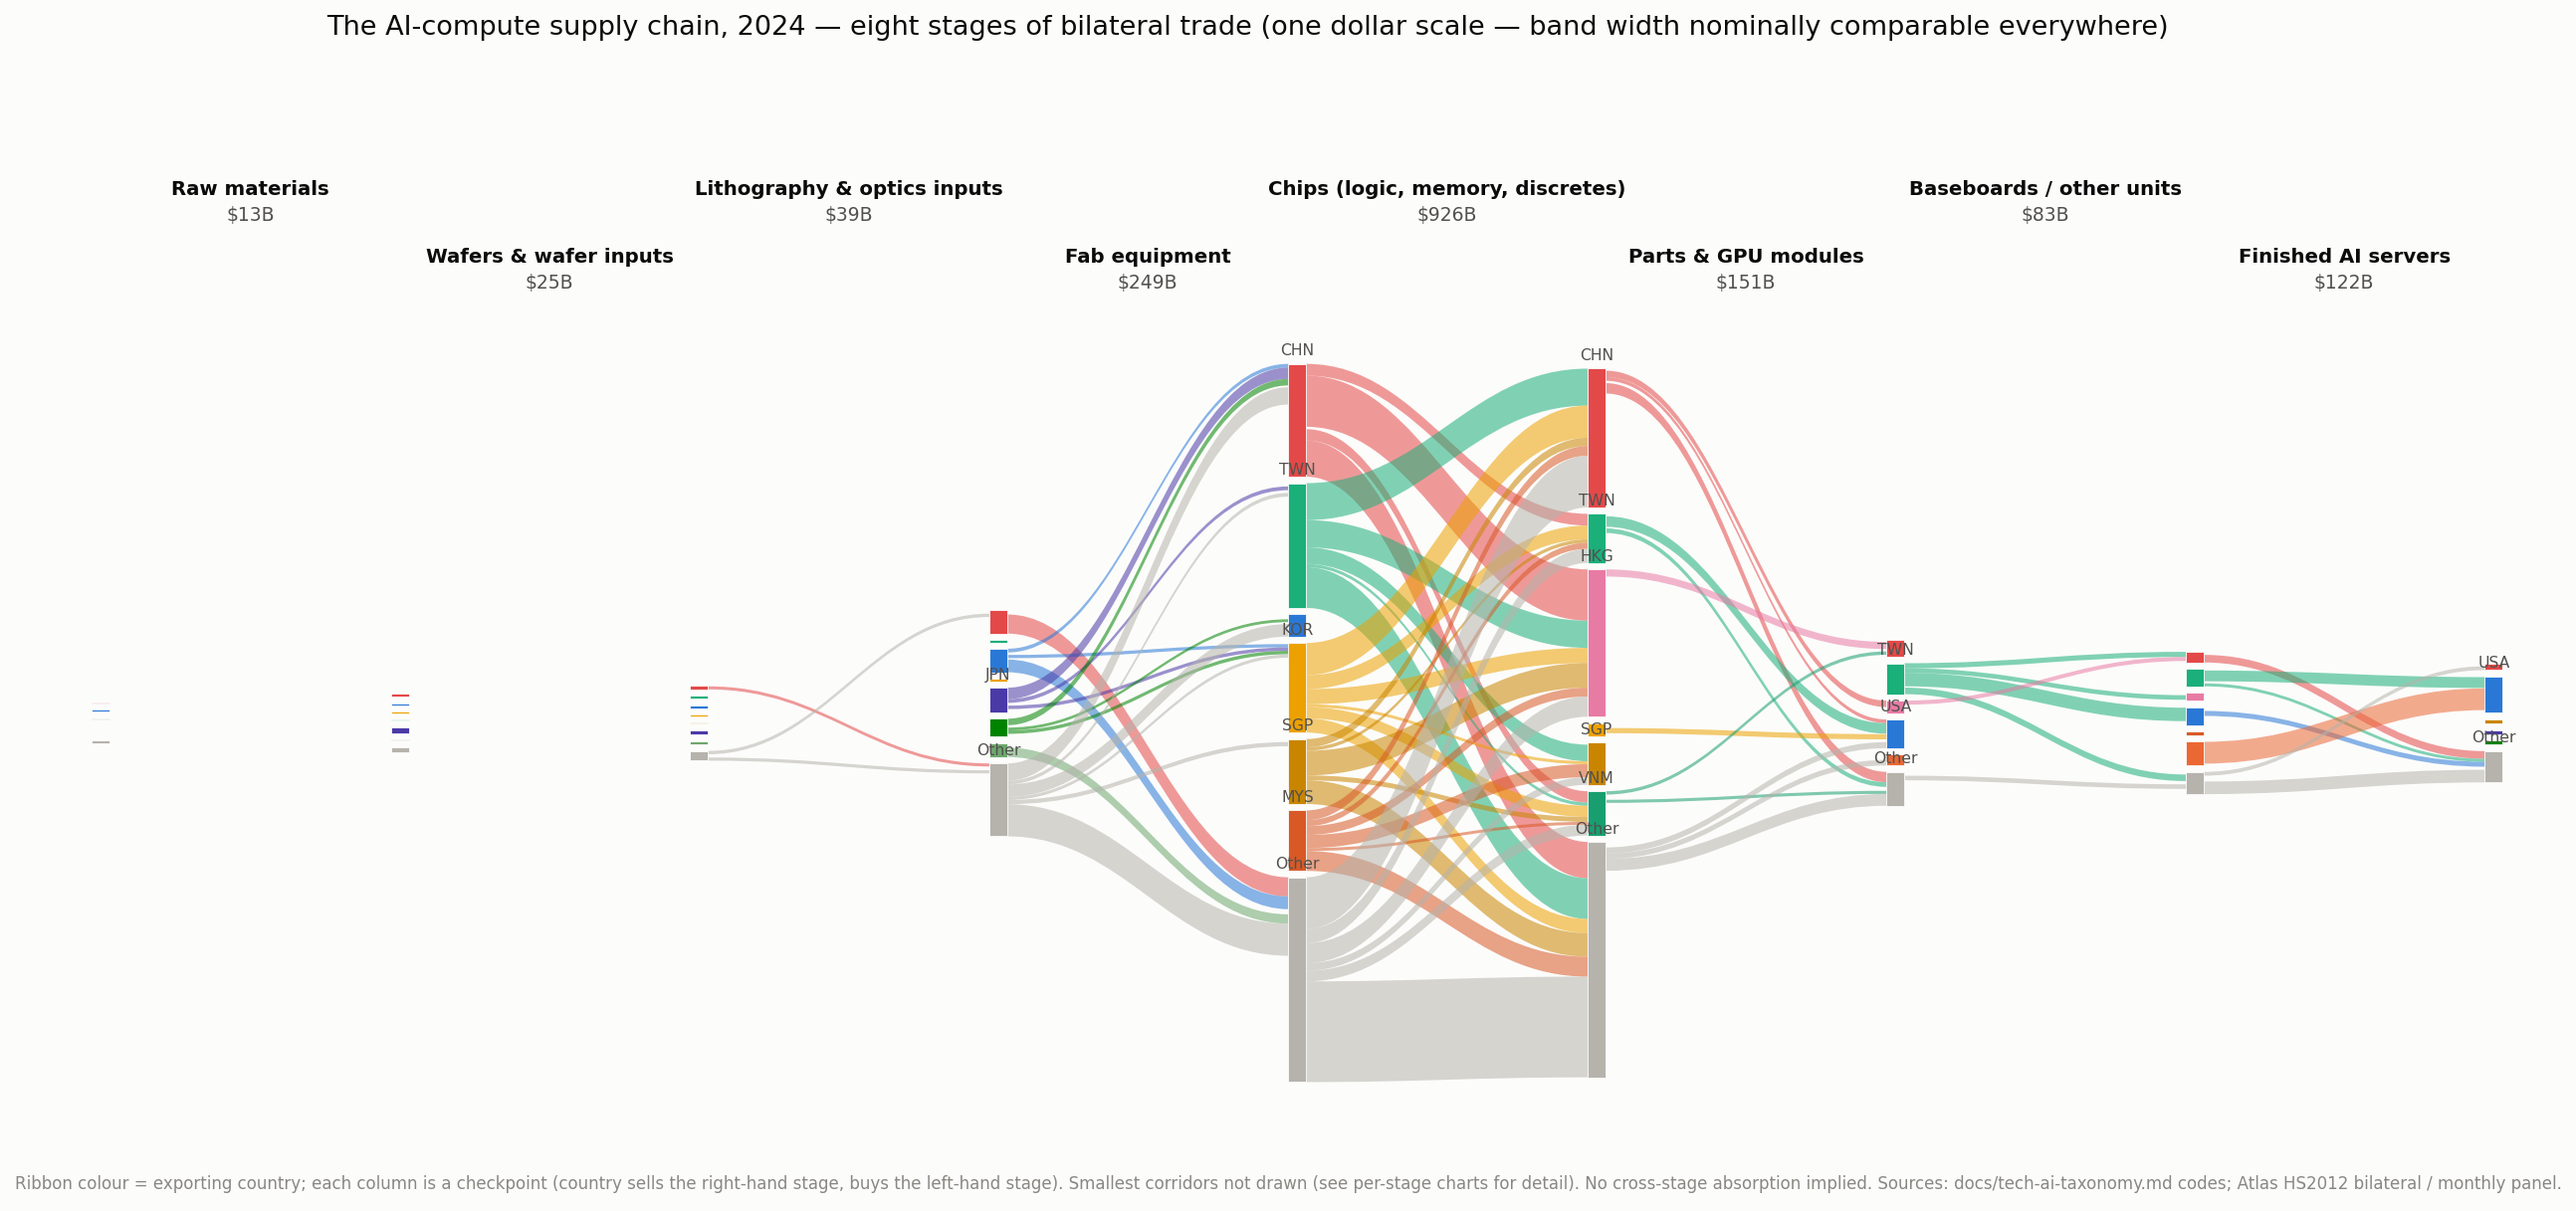
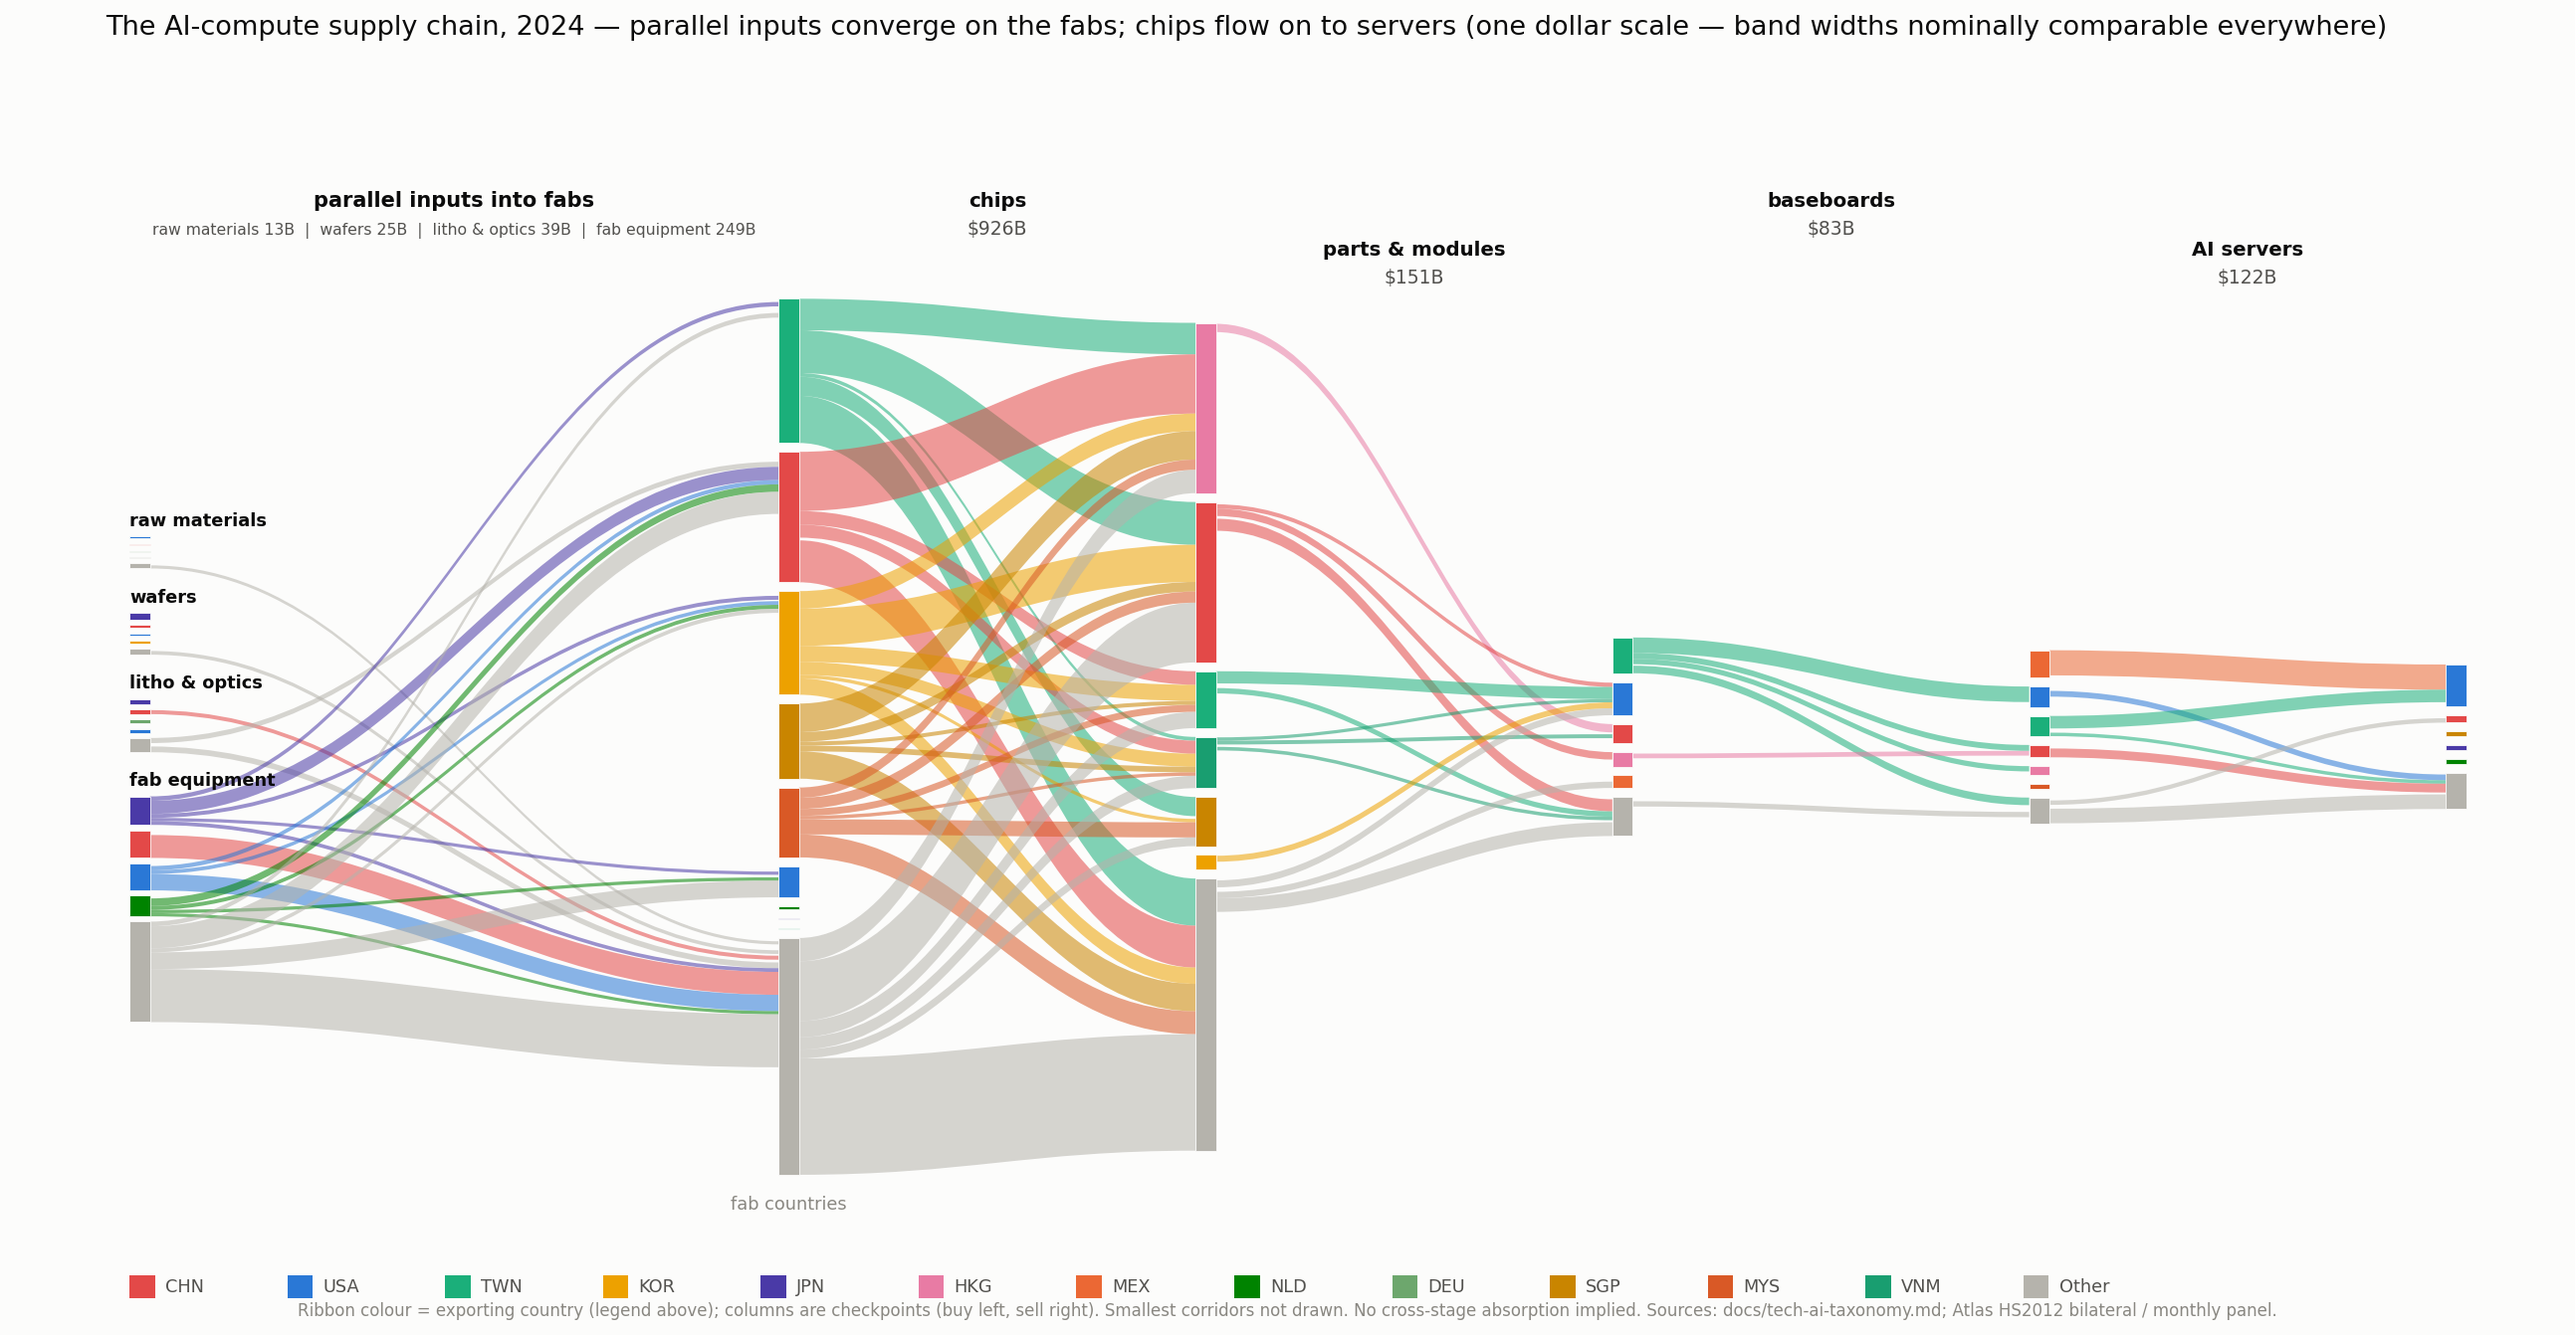
Overview topology fix: parallel inputs converge on fabs; colour legend added
Raw materials / wafers / litho-optics / equipment are no longer drawn as
a false sequence -- they are four parallel streams feeding one fab
checkpoint, after which chips -> parts -> baseboards -> servers run
sequentially. Consistent country colour legend (CHN red, USA blue, ...)
added to all three scale versions; mathtext glitch in caption fixed.

diff --git a/scripts/export_supply_chain_sankey.py b/scripts/export_supply_chain_sankey.py
@@ -360,7 +360,206 @@ def draw_hub_chart(fname, title, code_or_baskets, kind):
     print(f"-> {out}")
 
 
-def draw_overview(stage_flows, MODE="dollar"):
+def draw_chain_overview(input_stages, seq_stages, MODE="dollar"):
+    """Chain overview with correct topology: the four upstream input streams (raw
+    materials, wafers, litho/optics, equipment) are PARALLEL, converging on the fab
+    checkpoint; chips -> parts -> baseboards -> servers then run sequentially.
+    MODE governs vertical scale: 'dollar' (one $ scale), 'log' (heights ~ log10 of
+    flow-set total), 'normalized' (equal heights / full column per stage)."""
+    TOPI, TOPG = 4, 5
+
+    def fold(flows, n):
+        ex = pd.Series(dtype=float)
+        im = pd.Series(dtype=float)
+        for (o, t), v in flows.items():
+            ex[o] = ex.get(o, 0.0) + v
+            im[t] = im.get(t, 0.0) + v
+        ko = set(ex.sort_values(ascending=False).head(n).index)
+        kt = set(im.sort_values(ascending=False).head(n).index)
+        f = {}
+        for (o, t), v in flows.items():
+            f[(o if o in ko else "Other", t if t in kt else "Other")] = \
+                f.get((o if o in ko else "Other", t if t in kt else "Other"), 0.0) + v
+        return f
+
+    inputs = [(lab, fold(fl, TOPI)) for lab, fl in input_stages]
+    seqs = [(lab, fold(fl, TOPG)) for lab, fl in seq_stages]
+    in_totals = [sum(f.values()) for _, f in inputs]
+    seq_totals = [sum(f.values()) for _, f in seqs]
+
+    H = 0.86
+    if MODE == "dollar":
+        s_common = H / max(seq_totals)
+        in_scales = [s_common] * len(inputs)
+        seq_scales = [s_common] * len(seqs)
+    elif MODE == "log":
+        logs = [np.log10(t) for t in in_totals]
+        blk = [H * l / sum(logs) * 0.92 for l in logs]
+        in_scales = [b / t for b, t in zip(blk, in_totals)]
+        seq_scales = [H * np.log10(t) / np.log10(max(seq_totals)) / t for t in seq_totals]
+    else:
+        in_scales = [H / len(inputs) * 0.92 / t for t in in_totals]
+        seq_scales = [H / t for t in seq_totals]
+
+    x_in = 0.045
+    xs = np.linspace(0.30, 0.955, len(seqs) + 1)   # fab checkpoint .. final importers
+    nw = 0.008
+    pad = 0.010
+
+    def order_of(f):
+        tot = pd.Series(dtype=float)
+        for (o, t), v in f.items():
+            tot[o] = tot.get(o, 0.0) + v
+        names = list(tot.sort_values(ascending=False).index)
+        if "Other" in names:
+            names.remove("Other")
+            names.append("Other")
+        return names
+
+    # ---- input block: 4 groups stacked on the left
+    y_cursor = 0.5 + (sum(t * s for t, s in zip(in_totals, in_scales))
+                      + 0.05 * (len(inputs) - 1)) / 2
+    in_group_pos = []                      # per group: (label, {exp: (ytop, h)}, scale)
+    for (lab, f), sc in zip(inputs, in_scales):
+        names = order_of(f)
+        pos, y = {}, y_cursor
+        for n_ in names:
+            h = sum(v for (o, t), v in f.items() if o == n_) * sc
+            pos[n_] = (y, h)
+            y -= h + pad * 0.6
+        in_group_pos.append((lab, pos, sc))
+        y_cursor = y - 0.05 + pad * 0.6
+
+    # ---- fab checkpoint column: in = all four input streams; out = chips
+    fab_in = {}
+    for (lab, f), sc in zip(inputs, in_scales):
+        for (o, t), v in f.items():
+            fab_in[t] = fab_in.get(t, 0.0) + v * sc
+    chips_f = seqs[0][1]
+    fab_out = {}
+    for (o, t), v in chips_f.items():
+        fab_out[o] = fab_out.get(o, 0.0) + v * seq_scales[0]
+    fab_names = [n for n in order_of({(k, k): v for k, v in
+                                      {**fab_in, **fab_out}.items()})]
+    # order fab column by combined size
+    fab_sz = {n: max(fab_in.get(n, 0.0), fab_out.get(n, 0.0)) for n in
+              set(fab_in) | set(fab_out)}
+    fab_names = sorted(fab_sz, key=lambda n: (n == "Other", -fab_sz[n]))
+    fab_pos, y = {}, 0.5 + (sum(fab_sz.values()) + pad * (len(fab_sz) - 1)) / 2
+    for n_ in fab_names:
+        fab_pos[n_] = (y, fab_sz[n_])
+        y -= fab_sz[n_] + pad
+
+    # ---- downstream checkpoint columns
+    col_pos = [fab_pos]
+    for g in range(1, len(seqs) + 1):
+        out_v, in_v = {}, {}
+        if g < len(seqs):
+            for (o, t), v in seqs[g][1].items():
+                out_v[o] = out_v.get(o, 0.0) + v * seq_scales[g]
+        for (o, t), v in seqs[g - 1][1].items():
+            in_v[t] = in_v.get(t, 0.0) + v * seq_scales[g - 1]
+        sz = {n: max(out_v.get(n, 0.0), in_v.get(n, 0.0)) for n in set(out_v) | set(in_v)}
+        names = sorted(sz, key=lambda n: (n == "Other", -sz[n]))
+        pos, y = {}, 0.5 + (sum(sz.values()) + pad * (len(sz) - 1)) / 2
+        for n_ in names:
+            pos[n_] = (y, sz[n_])
+            y -= sz[n_] + pad
+        col_pos.append(pos)
+
+    fig, ax = plt.subplots(figsize=(22, 10))
+    ax.set_xlim(0, 1)
+    ax.set_ylim(-0.16, 1.14)
+    ax.axis("off")
+    fig.patch.set_facecolor(SURFACE)
+
+    # input ribbons -> fab column (shared in-offsets, group by group)
+    fab_in_off = {n: 0.0 for n in fab_pos}
+    for (lab, f), (lab2, gpos, sc) in zip(inputs, in_group_pos):
+        out_off = {n: 0.0 for n in gpos}
+        for o in gpos:
+            for t in fab_pos:
+                v = f.get((o, t), 0.0)
+                if v <= 0:
+                    continue
+                h = v * sc
+                y0 = gpos[o][0] - out_off[o]
+                y1 = fab_pos[t][0] - fab_in_off[t]
+                out_off[o] += h
+                fab_in_off[t] += h
+                if h > 0.0035:
+                    ribbon(ax, x_in + nw, xs[0], y0, y1, h, COLOR.get(o, FALLBACK))
+
+    # sequential ribbons
+    for g, (lab, f) in enumerate(seqs):
+        src, dst = col_pos[g], col_pos[g + 1]
+        out_off = {n: 0.0 for n in src}
+        in_off = {n: 0.0 for n in dst}
+        for o in src:
+            for t in dst:
+                v = f.get((o, t), 0.0)
+                if v <= 0:
+                    continue
+                h = v * seq_scales[g]
+                y0 = src[o][0] - out_off[o]
+                y1 = dst[t][0] - in_off[t]
+                out_off[o] += h
+                in_off[t] += h
+                if h > 0.0035:
+                    ribbon(ax, xs[g] + nw, xs[g + 1], y0, y1, h, COLOR.get(o, FALLBACK))
+
+    # nodes
+    for lab, gpos, sc in in_group_pos:
+        for n_, (y, h) in gpos.items():
+            ax.add_patch(plt.Rectangle((x_in, y - h), nw, h,
+                                       facecolor=COLOR.get(n_, FALLBACK),
+                                       edgecolor=SURFACE, lw=0.4, zorder=3))
+        top = max(y for y, h in gpos.values())
+        ax.text(x_in, top + 0.012, lab, ha="left", fontsize=8.5, color=INK, weight="bold")
+    for c, pos in enumerate(col_pos):
+        for n_, (y, h) in pos.items():
+            ax.add_patch(plt.Rectangle((xs[c], y - h), nw, h,
+                                       facecolor=COLOR.get(n_, FALLBACK),
+                                       edgecolor=SURFACE, lw=0.4, zorder=3))
+
+    # captions
+    ax.text((x_in + xs[0]) / 2, 1.10, "parallel inputs into fabs", ha="center",
+            fontsize=10, color=INK, weight="bold")
+    ax.text((x_in + xs[0]) / 2, 1.068,   # no '$' here: paired $ triggers mathtext
+            "  |  ".join(f"{lab} {t:.0f}B" for (lab, _), t in zip(inputs, in_totals)),
+            ha="center", fontsize=7.5, color=INK2)
+    for g, ((lab, _), t) in enumerate(zip(seqs, seq_totals)):
+        xm = (xs[g] + xs[g + 1] + nw) / 2
+        yb = 1.10 if g % 2 == 0 else 1.045
+        ax.text(xm, yb, lab, ha="center", fontsize=9.5, color=INK, weight="bold")
+        ax.text(xm, yb - 0.032, f"${t:.0f}B", ha="center", fontsize=9, color=INK2)
+    ax.text(xs[0] + nw / 2, -0.035, "fab countries", ha="center", fontsize=8.5, color=MUTED)
+
+    # colour legend (consistent everywhere: CHN red, USA blue, ...)
+    lx = 0.045
+    for n_ in ["CHN", "USA", "TWN", "KOR", "JPN", "HKG", "MEX", "NLD", "DEU",
+               "SGP", "MYS", "VNM", "Other"]:
+        ax.add_patch(plt.Rectangle((lx, -0.135), 0.010, 0.026,
+                                   facecolor=COLOR.get(n_, FALLBACK), edgecolor="none"))
+        ax.text(lx + 0.014, -0.122, n_, fontsize=8.5, color=INK2, va="center")
+        lx += 0.062
+    scale_note = {"dollar": "one dollar scale — band widths nominally comparable everywhere",
+                  "log": "flow-set heights ~ log10 of totals — a compromise scale",
+                  "normalized": "stages equalized — shares only"}[MODE]
+    fig.suptitle("The AI-compute supply chain, 2024 — parallel inputs converge on the "
+                 f"fabs; chips flow on to servers ({scale_note})",
+                 fontsize=13, color=INK, y=0.985)
+    ax.text(0.5, -0.155, "Ribbon colour = exporting country (legend above); columns are "
+            "checkpoints (buy left, sell right). Smallest corridors not drawn. No "
+            "cross-stage absorption implied. Sources: docs/tech-ai-taxonomy.md; Atlas "
+            "HS2012 bilateral / monthly panel.", ha="center", fontsize=8, color=MUTED)
+    out = OUT_DIR / f"supply_chain_overview_{MODE}_{YEAR}.png"
+    fig.savefig(out, dpi=150, bbox_inches="tight", facecolor=SURFACE)
+    plt.close(fig)
+    print(f"-> {out}")
+
+
+def draw_overview(stage_flows, MODE="dollar"):  # unused: replaced by draw_chain_overview
     """Multi-column chain: checkpoint columns, one stage per gap. ONE common dollar
     scale across all stages, so band widths are nominally comparable everywhere --
     the chain visibly amplifies from $13B of raw materials to $926B of chips."""
@@ -490,8 +689,12 @@ def main():
         flows = flows_json(arg) if kind == "json" else flows_panel(arg)
         all_flows.append(flows)
         draw_hub_chart(fname, title, arg, kind)
+    input_stages = [("raw materials", all_flows[0]), ("wafers", all_flows[1]),
+                    ("litho & optics", all_flows[2]), ("fab equipment", all_flows[3])]
+    seq_stages = [("chips", all_flows[4]), ("parts & modules", all_flows[5]),
+                  ("baseboards", all_flows[6]), ("AI servers", all_flows[7])]
     for mode in ("dollar", "log", "normalized"):
-        draw_overview(all_flows, mode)
+        draw_chain_overview(input_stages, seq_stages, mode)
 
 
 if __name__ == "__main__":
